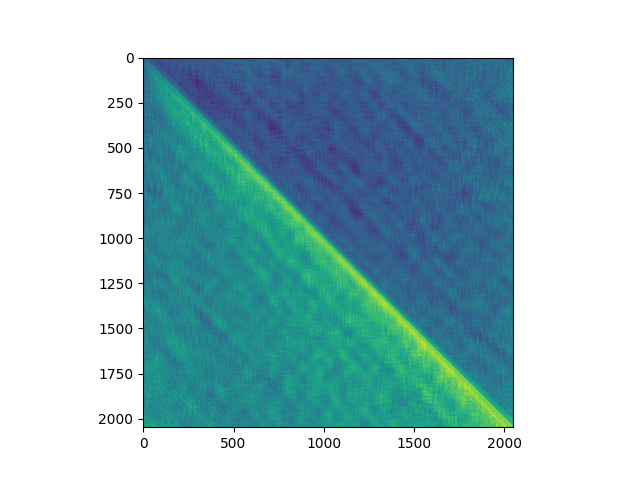
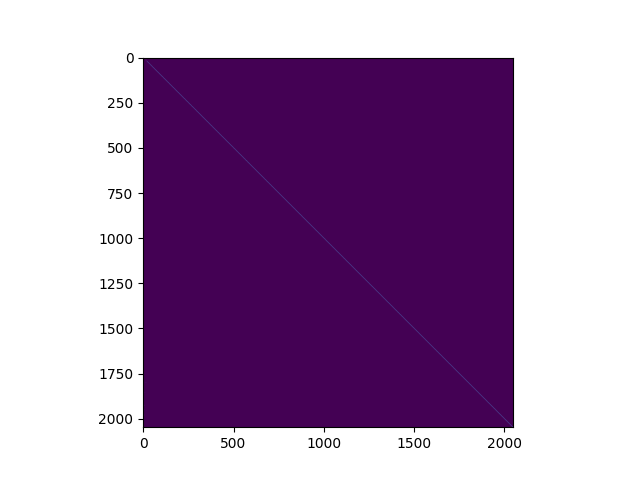
Fix positional

diff --git a/analysis/one_layer.py b/analysis/one_layer.py
@@ -138,19 +138,25 @@ def positional_attention_for_head(head_weights, plot=False):
     p_e = head_weights['p_e']
     qk = head_weights['w_q'].T @ head_weights['w_k']
 
-    res = p_e @ qk.T @ p_e.T
+    res = p_e @ qk @ p_e.T
 
-    # # # mask out top right triangle with -inf
-    # mask = np.triu(np.ones_like(res), k=1)
-    # res = res - mask * 1e9
+    # mask with zeros
+    mask = np.triu(np.ones_like(res), k=1)
+    res = res * (1 - mask)
 
-    # # to torch, apply softmax, and convert back to numpy
-    # res = torch.from_numpy(res)
-    # res = torch.softmax(res, dim=0)
-    # res = res.numpy()
+    # to torch, apply softmax, and convert back to numpy
+    res = torch.from_numpy(res)
+    res = torch.softmax(res, dim=0)
+    res = res.numpy()
 
     # the higher the value, the more the head attends to positions.
-    print('positional:', res.max() - res.min())
+    diag_averages = []
+    n = res.shape[0]
+    for i in range(n):
+        diag_averages.append(np.trace(res, offset=-i)/ (n - i*0.99))
+    print('positional max: ', np.max(diag_averages))
+    print('positional argmax:', np.argmax(diag_averages))
+    # print('diagonal averages:', diag_averages[:10])
 
     if plot:
         # plot heatmap of res

diff --git a/analysis/one_layer.md b/analysis/one_layer.md
@@ -14,11 +14,15 @@ An example of a head which attends to relative positions.
 ```
 Source token is " couldn"
 
-head 5
-max difference between values of positional attention:
-296.13678  -- this is the larges value of all the heads.
+head 11
+positional max:  0.6577057866183482
+positional argmax: 1
+# we see that the head is attending to the previous token
 
 source to out
-[b' be', b' confirm', b' agree', b' afford', b' imagine']
-[0.38773345947265625, 0.3833295404911041, 0.3782491981983185, 0.3716591000556946, 0.3678983449935913]
+[b'\x99', b'bodied', b' resist', b' contain', b' unwilling']
+[0.12821078300476074, 0.12735702097415924, 0.12677621841430664, 0.12531062960624695, 0.1235443577170372]
+source to dest
+[b't', b' really', b"'t", b' only', b' even']
+[22.910142558297608, 18.76203904619527, 18.566329625278822, 17.632106478644054, 17.53535245989735]
 ```
